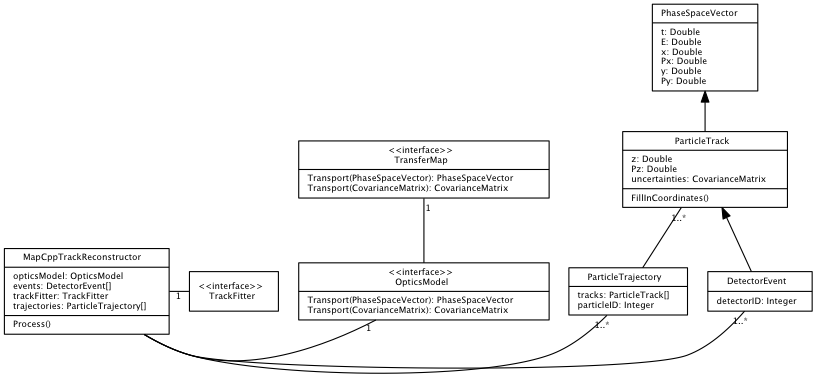
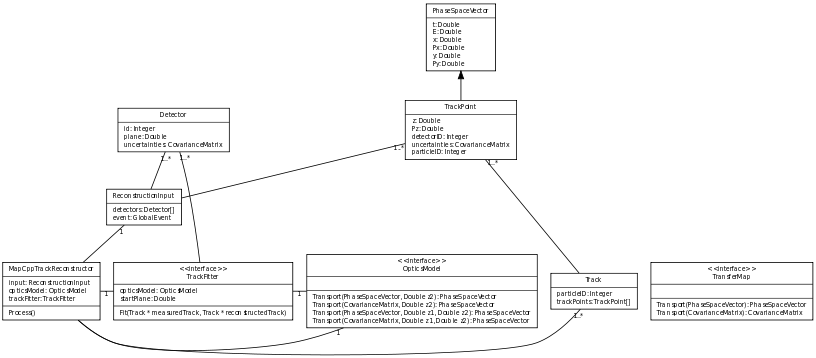
Updated global reconstruction document.

diff --git a/doc/doc_src/reconstruction/global_track_reconstruction_specification.tex b/doc/doc_src/reconstruction/global_track_reconstruction_specification.tex
@@ -524,9 +524,8 @@ may include all of the required information in their output data structures.\\
 An instance of the reconstruction input data structure requires three pieces of
 information:
 \begin{enumerate}
-  \item a flag indicating the polarity of the particle beam,
   \item a list of detector information data structures, and
-  \item a list of track point data structures.
+  \item a global event data structure.
 \end{enumerate}
 
 Each instance of the detector information data structure is comprised of
@@ -536,17 +535,14 @@ Each instance of the detector information data structure is comprised of
   \item a matrix of covariances indicating the uncertainties of the detector.
 \end{enumerate}
 
-The items of the track point data structure that are used for inputs into
+The items of the global event data structure that are used for inputs into
 reconstruction are
 \begin{enumerate}
-  \item the 6D phase space coordinates of the track point $(t, E, x, Px, y, Py)$, and
-  \item the ID of the detector which produced the track point.
+  \item space points generated by the detectors $(x, y, z)$,
+  \item the timestamp of each space point,
+  \item the component momentum $(px, py, pz)$, if available, and
+  \item the ID of the detector which produced each space point.
 \end{enumerate}
-This data structure also contains the z and Pz coordinates as well an
-uncertainty matrix. The z and Pz coordinates are filled in automatically and are
-provided as an output of reconstruction. For measured track points the
-uncertainty matrix is filled in using the one given for the detector where
-the track point was produced.
 
 \subsection{Output Data Structure}
 
@@ -554,7 +550,7 @@ The outputs of reconstruction are a list of track data structures.
 Each track contains
 \begin{enumerate}
   \item the PDG particle ID for the type of particle associated with the track, and
-  \item a list of track pont data structures that comprise the discrete track.
+  \item a list of track point data structures that comprise the discrete track.
 \end{enumerate}
 
 Each track point data structure contains the following items:
@@ -563,33 +559,31 @@ Each track point data structure contains the following items:
   \item the calculated z and Pz coordinates,
   \item the uncertainties on the phase space coordinates in the form of a
         covariance matrix.
-  \item the ID of the detector which produced the track point, or zero if this track point was 
-        calculated during reconstruction.
+  \item the ID of the detector which produced the track point, or zero if this
+        track point was generated by interpolation between the detectors.
 \end{enumerate}
 
 \section{Task Breakdown}
 
 \subsection{Data Structures}
 
-Define input and output data structures. It is crucial to get this flushed out early on so that the detector groups know what is needed. Referring to the class diagram, this would involve implementing PhaseSpaceVector (exists already), TrackPoint, Detector,
-and ReconstructionInput for the inputs. Track must be implemented
-for the outputs.
+Define input and output data structures. It is crucial to get this flushed out early on so that the detector groups know what is needed. Referring to the class diagram, this would involve implementing PhaseSpaceVector (exists already), TrackPoint, Detector, and ReconstructionInput for the inputs. Track must be implemented for the outputs.
 
 \subsection{Interfaces}
 
 Defining the OpticsModel and TransferMap interfaces.
 
-\subsection{Polynomial Transfer Map}
+\subsection{Polynomial Optics Model}
 
-Convert existing PolynomialVector into three separate classes: PolynomialMap, PolynomialVector, and LeastSquaresOpticsModel. LeastSquaresOpticsModel would become an implementation of the OpticsModel interface. The PolynomialTransferMap class will be the first TransferMap  implementation, and will also be a subclass of PolynomialMap.
+A first implementation of OpticsModel will be created that builds a model based on the creation of PolynomialMaps between the start plane and desired planes along the beam axis.
 
 \subsection{Basic Minuit Track Fitter}
 
-The TrackFitter implementation MinuitTrackFitter will be created and tested with just fields (no materials).
+The first TrackFitter implementation will be MinuitTrackFitter that will assume only fields (no materials).
 
 \subsection{Basic Track Reconstructor}
 
-This will likely be created in tandem with the Minuit Track Fitter to serve as an interface for testing the reconstruction. This task is to create a "map" in the Python Map/Reduce flow structure that can be inserted into the chain of execution of a MAUS simulation or live run.
+This will likely be created in tandem with the Polynomial Optics Model and Minuit Track Fitter to serve as an interface for testing the reconstruction. This task is to create a "map" in the Python Map/Reduce flow structure that can be inserted into the chain of execution of a MAUS simulation or live run.
 
 \subsection{Minuit Material Effects}
 

diff --git a/src/map/MapCppGlobalTrackReconstructor/MapCppGlobalTrackReconstructor.cc b/src/map/MapCppGlobalTrackReconstructor/MapCppGlobalTrackReconstructor.cc
@@ -742,8 +742,10 @@ void MapCppGlobalTrackReconstructor::LoadLiveData() {
       // Load TOF and SciFi tracks from the appropriate recon event trees
       std::vector<Track> tof_tracks;
       LoadTOFTracks(detectors, recon_event, tof_tracks);
+      /*
       std::vector<Track> sci_fi_tracks;
       LoadSciFiTracks(detectors, recon_event, sci_fi_tracks);
+      */
 
     // Assuming there are an equal number of TOF and SciFi tracks,
     // merge each pair of tracks based on z position of the detectors
